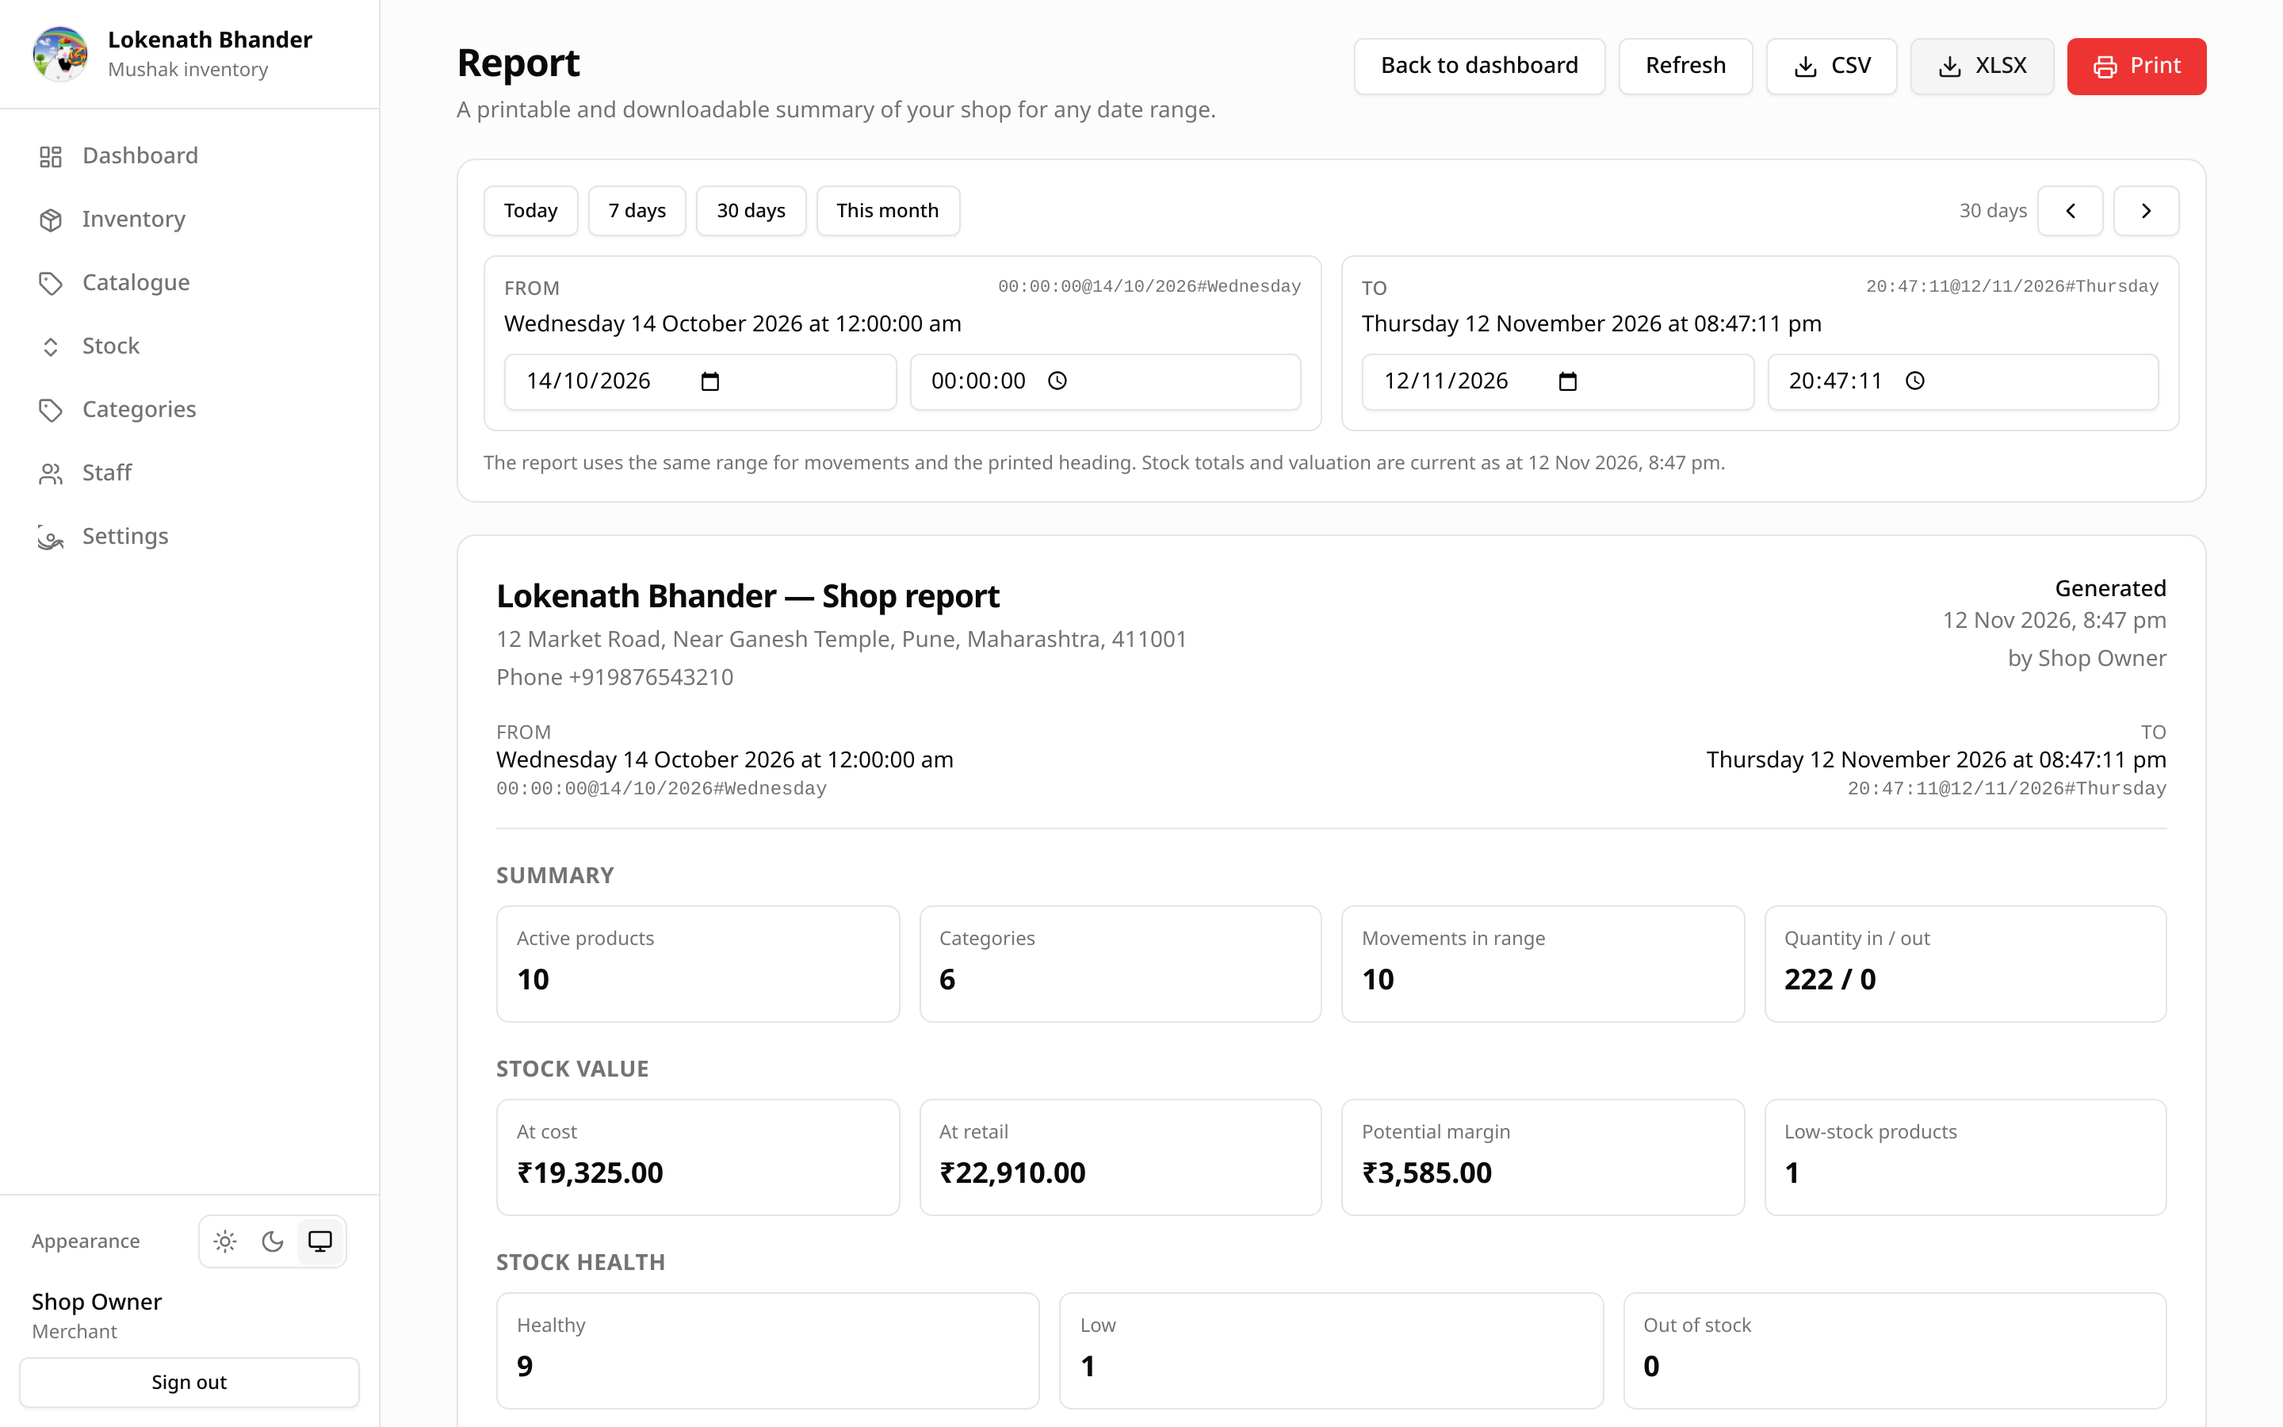
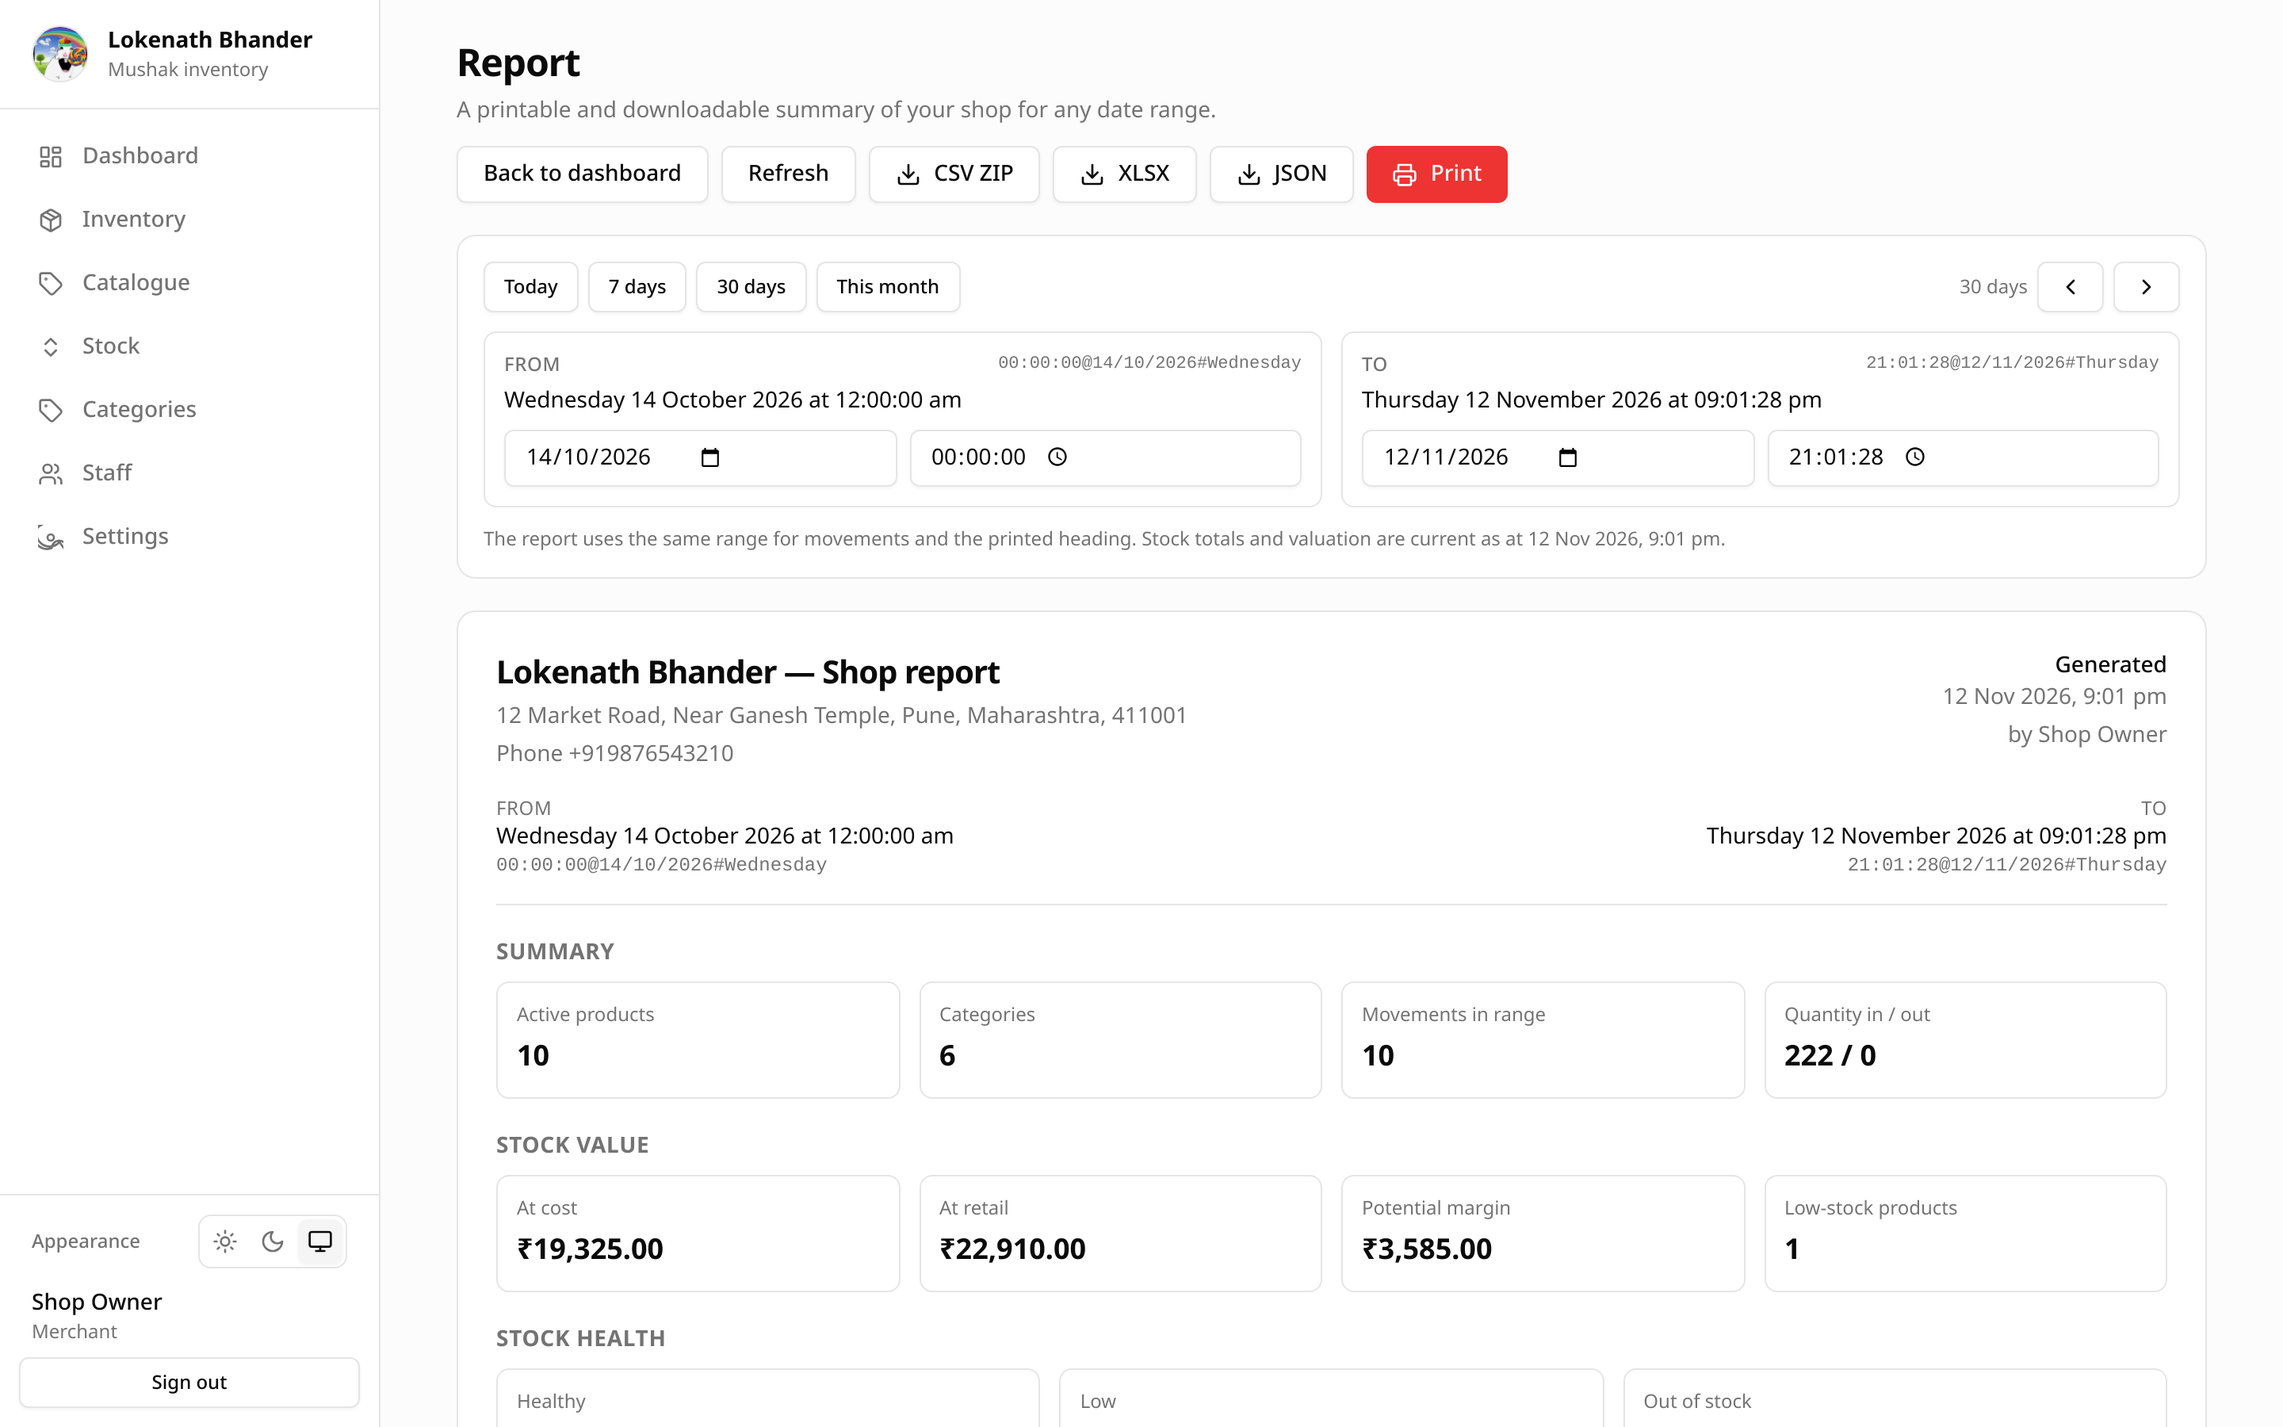
feat(mushak): zip CSV exports and add JSON download

diff --git a/mushak/frontend/src/lib/report-export.ts b/mushak/frontend/src/lib/report-export.ts
@@ -14,6 +14,8 @@ export type ExportCell = string | number | null;
 
 export type ExportSheet = {
   name: string;
+  /** Name of the CSV file when the report is downloaded as a ZIP. */
+  file: string;
   rows: ExportCell[][];
   /** Row indexes (zero-based) that should use the bold header style. */
   headerRows?: number[];
@@ -44,7 +46,8 @@ function shopContact(data: ShopReportData) {
 
 function reportRows(data: ShopReportData): ExportCell[][] {
   return [
-    ["Mushak shop report"],
+    ["Field", "Value"],
+    ["Report", "Mushak shop report"],
     ["Shop", data.merchant?.name ?? "Unknown shop"],
     ["Address", shopAddress(data)],
     ["Contact", shopContact(data)],
@@ -52,8 +55,6 @@ function reportRows(data: ShopReportData): ExportCell[][] {
     ["Generated by", data.generatedBy],
     ["From", `${formatFluent(data.range.from)} (${formatBound(data.range.from)})`],
     ["To", `${formatFluent(data.range.to)} (${formatBound(data.range.to)})`],
-    [],
-    ["Metric", "Value"],
     ["Active products", data.counts.activeProducts],
     ["Archived products", data.counts.products - data.counts.activeProducts],
     ["Categories", data.counts.categories],
@@ -88,11 +89,13 @@ export function reportSheets(data: ShopReportData): ExportSheet[] {
   return [
     {
       name: "Summary",
+      file: "01-summary.csv",
       rows: reportRows(data),
-      headerRows: [0, 9],
+      headerRows: [0],
     },
     {
       name: "Categories",
+      file: "02-categories.csv",
       rows: [
         ["Category", "Products", `Cost (${currency})`, `Retail (${currency})`],
         ...data.categories.map((row): ExportCell[] => [
@@ -106,6 +109,7 @@ export function reportSheets(data: ShopReportData): ExportSheet[] {
     },
     {
       name: "Needs reordering",
+      file: "03-needs-reordering.csv",
       rows: [
         ["Product", "Stock", "Reorder at", "Unit"],
         ...data.lowStock.map((row): ExportCell[] => [
@@ -119,6 +123,7 @@ export function reportSheets(data: ShopReportData): ExportSheet[] {
     },
     {
       name: "Out of stock",
+      file: "04-out-of-stock.csv",
       rows: [
         ["Product", "Stock", "Unit", "Last updated"],
         ...data.outOfStock.map((row): ExportCell[] => [
@@ -132,6 +137,7 @@ export function reportSheets(data: ShopReportData): ExportSheet[] {
     },
     {
       name: "Top stock value",
+      file: "05-top-stock-value.csv",
       rows: [
         ["Product", "On hand", "Unit", `Cost (${currency})`, `Retail (${currency})`],
         ...data.topValue.map((row): ExportCell[] => [
@@ -146,6 +152,7 @@ export function reportSheets(data: ShopReportData): ExportSheet[] {
     },
     {
       name: "Movements",
+      file: "06-movements.csv",
       rows: [
         ["When", "Product", "Type", "Quantity", "Unit", "Unit cost", "Note", "Recorded at (ISO)"],
         ...data.movements.map((row): ExportCell[] => [
@@ -170,19 +177,17 @@ function csvEscape(value: ExportCell) {
   return text;
 }
 
-/** A single sectioned CSV, with a blank line between each report table. */
-export function reportCsv(data: ShopReportData): string {
-  const lines: string[] = [];
-
-  for (const sheet of reportSheets(data)) {
-    if (lines.length > 0) lines.push("");
-    lines.push(csvEscape(sheet.name));
-    for (const row of sheet.rows) {
-      lines.push(row.map(csvEscape).join(","));
-    }
-  }
-
+function rowsToCsv(rows: ExportCell[][]) {
+  const lines = rows.map((row) => row.map(csvEscape).join(","));
   return `\uFEFF${lines.join("\r\n")}\r\n`;
+}
+
+/** One UTF-8 CSV per report section, ready to be zipped. */
+export function reportCsvFiles(data: ShopReportData) {
+  return reportSheets(data).map((sheet) => ({
+    name: sheet.file,
+    content: rowsToCsv(sheet.rows),
+  }));
 }
 
 function xmlEscape(value: string) {
@@ -389,18 +394,8 @@ function concat(parts: Uint8Array[]) {
   return output;
 }
 
-/**
- * Builds a valid .xlsx package using stored (uncompressed) ZIP entries. Excel
- * only needs the package structure and SpreadsheetML parts, so this avoids
- * shipping a spreadsheet library for one download button.
- */
-export function buildXlsx(sheets: ExportSheet[]): Uint8Array {
-  const usedNames = new Set<string>();
-  const named = sheets.map((sheet) => ({
-    ...sheet,
-    name: safeSheetName(sheet.name, usedNames),
-  }));
-
+/** Builds a stored (uncompressed) ZIP archive from arbitrary files. */
+function buildZip(files: ZipFile[]): Uint8Array {
   const now = new Date();
   const dosTime =
     ((now.getHours() << 11) | (now.getMinutes() << 5) | (now.getSeconds() >> 1)) &
@@ -408,18 +403,6 @@ export function buildXlsx(sheets: ExportSheet[]): Uint8Array {
   const dosDate =
     (((now.getFullYear() - 1980) << 9) | ((now.getMonth() + 1) << 5) | now.getDate()) &
     0xffff;
-
-  const files: ZipFile[] = [
-    { name: "[Content_Types].xml", bytes: encoder.encode(contentTypesXml(named)) },
-    { name: "_rels/.rels", bytes: encoder.encode(rootRelsXml) },
-    { name: "xl/workbook.xml", bytes: encoder.encode(workbookXml(named)) },
-    { name: "xl/_rels/workbook.xml.rels", bytes: encoder.encode(workbookRelsXml(named)) },
-    { name: "xl/styles.xml", bytes: encoder.encode(stylesXml) },
-    ...named.map((sheet, index) => ({
-      name: `xl/worksheets/sheet${index + 1}.xml`,
-      bytes: encoder.encode(sheetXml(sheet)),
-    })),
-  ];
 
   const localParts: Uint8Array[] = [];
   const centralParts: Uint8Array[] = [];
@@ -487,6 +470,41 @@ export function buildXlsx(sheets: ExportSheet[]): Uint8Array {
   return concat([...localParts, central, end]);
 }
 
+/**
+ * Builds a valid .xlsx package using stored ZIP entries. Excel only needs the
+ * package structure and SpreadsheetML parts, so this avoids shipping a
+ * spreadsheet library for one download button.
+ */
+export function buildXlsx(sheets: ExportSheet[]): Uint8Array {
+  const usedNames = new Set<string>();
+  const named = sheets.map((sheet) => ({
+    ...sheet,
+    name: safeSheetName(sheet.name, usedNames),
+  }));
+
+  return buildZip([
+    { name: "[Content_Types].xml", bytes: encoder.encode(contentTypesXml(named)) },
+    { name: "_rels/.rels", bytes: encoder.encode(rootRelsXml) },
+    { name: "xl/workbook.xml", bytes: encoder.encode(workbookXml(named)) },
+    { name: "xl/_rels/workbook.xml.rels", bytes: encoder.encode(workbookRelsXml(named)) },
+    { name: "xl/styles.xml", bytes: encoder.encode(stylesXml) },
+    ...named.map((sheet, index) => ({
+      name: `xl/worksheets/sheet${index + 1}.xml`,
+      bytes: encoder.encode(sheetXml(sheet)),
+    })),
+  ]);
+}
+
+/** Builds a ZIP containing one CSV per report section. */
+export function buildCsvZip(data: ShopReportData): Uint8Array {
+  return buildZip(
+    reportCsvFiles(data).map((file) => ({
+      name: file.name,
+      bytes: encoder.encode(file.content),
+    })),
+  );
+}
+
 function download(filename: string, blob: Blob) {
   const url = URL.createObjectURL(blob);
   const link = document.createElement("a");
@@ -510,22 +528,36 @@ export function reportFilename(data: ShopReportData, extension: string) {
   return `mushak-report-${rangePart(data.range.from)}-to-${rangePart(data.range.to)}.${extension}`;
 }
 
+function binaryBlob(bytes: Uint8Array, type: string) {
+  const buffer = new ArrayBuffer(bytes.byteLength);
+  new Uint8Array(buffer).set(bytes);
+  return new Blob([buffer], { type });
+}
+
+/** Downloads a ZIP with one CSV per report section. */
 export function downloadReportCsv(data: ShopReportData) {
   download(
-    reportFilename(data, "csv"),
-    new Blob([reportCsv(data)], { type: "text/csv;charset=utf-8" }),
+    reportFilename(data, "csv.zip"),
+    binaryBlob(buildCsvZip(data), "application/zip"),
   );
 }
 
 export function downloadReportXlsx(data: ShopReportData) {
-  const bytes = buildXlsx(reportSheets(data));
-  const buffer = new ArrayBuffer(bytes.byteLength);
-  new Uint8Array(buffer).set(bytes);
-
   download(
     reportFilename(data, "xlsx"),
-    new Blob([buffer], {
-      type: "application/vnd.openxmlformats-officedocument.spreadsheetml.sheet",
+    binaryBlob(
+      buildXlsx(reportSheets(data)),
+      "application/vnd.openxmlformats-officedocument.spreadsheetml.sheet",
+    ),
+  );
+}
+
+/** Downloads the report response as-is, pretty-printed for reading or scripts. */
+export function downloadReportJson(data: ShopReportData) {
+  download(
+    reportFilename(data, "json"),
+    new Blob([`${JSON.stringify(data, null, 2)}\n`], {
+      type: "application/json;charset=utf-8",
     }),
   );
 }

diff --git a/mushak/frontend/src/routes/merchant/Report.tsx b/mushak/frontend/src/routes/merchant/Report.tsx
@@ -8,6 +8,7 @@ import { api, errorMessage } from "@/lib/api";
 import { dateTime, money, movementLabels, qty } from "@/lib/format";
 import {
   downloadReportCsv,
+  downloadReportJson,
   downloadReportXlsx,
 } from "@/lib/report-export";
 import {
@@ -95,11 +96,11 @@ export default function Report() {
                 variant="outline"
                 onClick={() => data && downloadReportCsv(data)}
                 disabled={!data}
-                aria-label="Download report as CSV"
-                title="Download the report as CSV"
+                aria-label="Download CSV files as a ZIP"
+                title="Download one CSV per report section, inside a ZIP"
               >
                 <DownloadIcon />
-                CSV
+                CSV ZIP
               </Button>
               <Button
                 variant="outline"
@@ -110,6 +111,16 @@ export default function Report() {
               >
                 <DownloadIcon />
                 XLSX
+              </Button>
+              <Button
+                variant="outline"
+                onClick={() => data && downloadReportJson(data)}
+                disabled={!data}
+                aria-label="Download report as JSON"
+                title="Download the report data as JSON"
+              >
+                <DownloadIcon />
+                JSON
               </Button>
               <Button onClick={() => window.print()} disabled={!data}>
                 <PrinterIcon />

diff --git a/mushak/docs/user-guide/12-report.md b/mushak/docs/user-guide/12-report.md
@@ -3,7 +3,8 @@
 **Report** produces a printable or downloadable summary of the shop for a date
 range. The page you see is the preview — there is no separate print dialog
 window. Choose **Print** and use the browser's print dialog to send it to a
-printer or choose **Save as PDF**, or download the same data as CSV or XLSX.
+printer or choose **Save as PDF**, or download the same data as CSV files,
+XLSX or JSON.
 
 Open it from the **Report** button in the Dashboard header, or go to
 `/app/report` directly.
@@ -59,23 +60,27 @@ more than one page.
 The browser sets the document title to `<shop> report — <range>`, which becomes
 the default PDF filename.
 
-## Downloading CSV and XLSX
+## Downloading CSV, XLSX and JSON
 
-The same report can be downloaded as a spreadsheet:
+The same report can be downloaded in three formats:
 
-- **CSV** — one UTF-8 file with a section for Summary, Categories, Needs
-  reordering, Out of stock, Top stock value and Movements. Values are separated
-  by a blank line. Currency columns are plain numbers, with the currency code in
-  the heading (for example `Retail (INR)`). Movement timestamps include an ISO
-  column for re-importing.
+- **CSV ZIP** — a ZIP archive containing one UTF-8 CSV per section:
+  `01-summary.csv`, `02-categories.csv`, `03-needs-reordering.csv`,
+  `04-out-of-stock.csv`, `05-top-stock-value.csv` and `06-movements.csv`.
+  Currency columns are plain numbers, with the currency code in the heading
+  (for example `Retail (INR)`). Movement rows include an ISO timestamp column
+  for re-importing.
 - **XLSX** — an Excel workbook with one worksheet per section. Header rows are
   bold and frozen, and column widths are sized to the content.
+- **JSON** — the report response exactly as the page received it, pretty-printed
+  with the range, summary, stock-health, valuation, low-stock, out-of-stock,
+  top-value and movement fields. Useful for scripts or for keeping a raw copy.
 
-Both downloads use the currently loaded report and range, and are named
-`mushak-report-<from>-to-<to>.csv` or `.xlsx`. The movement sheet is capped at
-1,000 rows, exactly like the on-screen report; when the range contains more, the
-Summary sheet and the screen both say so. Narrow the range to export the full
-list.
+The downloads use the currently loaded report and range, and are named
+`mushak-report-<from>-to-<to>.csv.zip`, `.xlsx` or `.json`. The movement sheet
+is capped at 1,000 rows, exactly like the on-screen report; when the range
+contains more, the Summary section and the screen both say so. Narrow the range
+to export the full list.
 
 The files are built in the browser from the report response, so there is no
 server-side export job to wait for. Stock totals and valuation are the snapshot

diff --git a/mushak/docs/reference/glossary.md b/mushak/docs/reference/glossary.md
@@ -97,8 +97,8 @@ data still comes from the server.
 **Reorder level** — The low-stock threshold stored on the inventory row. See
 *low stock*.
 
-**Report** — A printable shop summary for a selectable date range. Opened from
-the Dashboard and saved as a PDF through the browser's print dialog.
+**Report** — A printable and downloadable shop summary for a selectable date
+range. Opened from the Dashboard; supports print/PDF, CSV ZIP, XLSX and JSON.
 
 **Role** — `super_admin`, `dev`, `merchant` or `staff`. Constrained in the
 database.

diff --git a/mushak/docs/api/merchant-profile-dashboard.md b/mushak/docs/api/merchant-profile-dashboard.md
@@ -210,5 +210,5 @@ The response repeats the snapshot fields above and adds:
 
 `lowStock` is capped at 200 rows for the report. Every shop role can call the
 endpoint. Printing and PDF export happen in the browser; the API returns JSON
-only. The CSV and XLSX downloads are also generated in the browser from this
-response, so there is no separate export endpoint.
+only. The CSV ZIP, XLSX and JSON downloads are also generated in the browser
+from this response, so there is no separate export endpoint.

diff --git a/mushak/docs/user-guide/README.md b/mushak/docs/user-guide/README.md
@@ -19,7 +19,7 @@ mean, and what happens when you save.
 9. [Staff and permissions](09-staff-and-permissions.md)
 10. [Settings](10-settings.md)
 11. [Troubleshooting](11-troubleshooting.md)
-12. [Report](12-report.md) — print, save as PDF, or download as CSV/XLSX.
+12. [Report](12-report.md) — print, save as PDF, or download as CSV files, XLSX or JSON.
 
 In a hurry? Use the [one-page quick start](quick-start.md).
 
